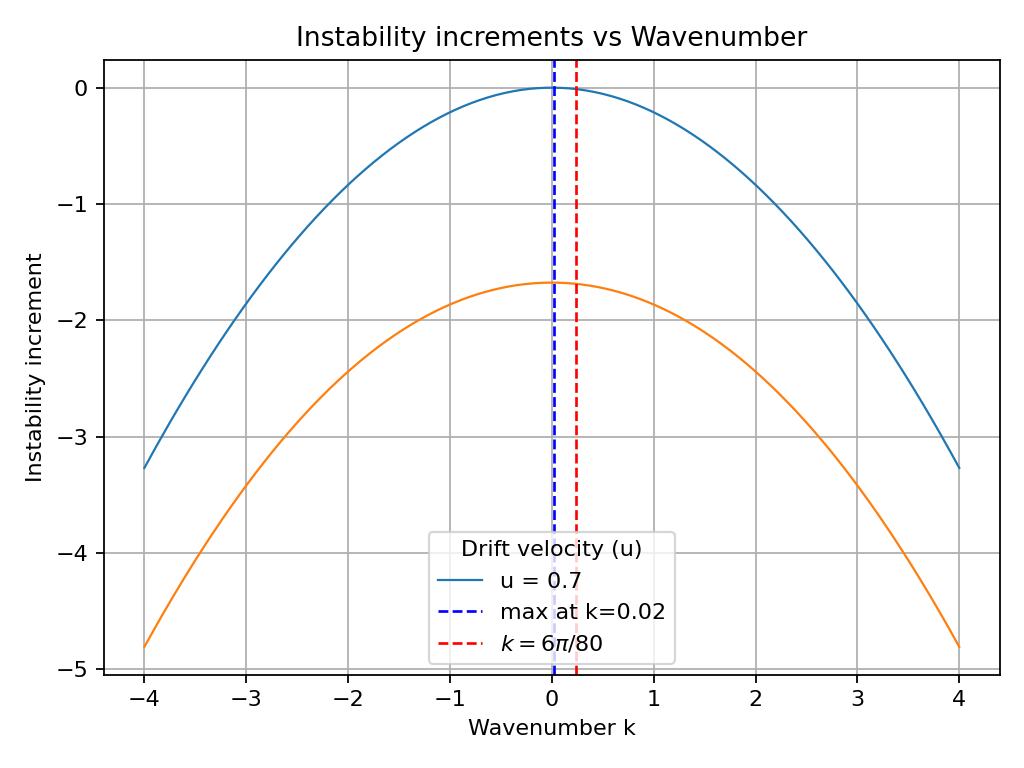
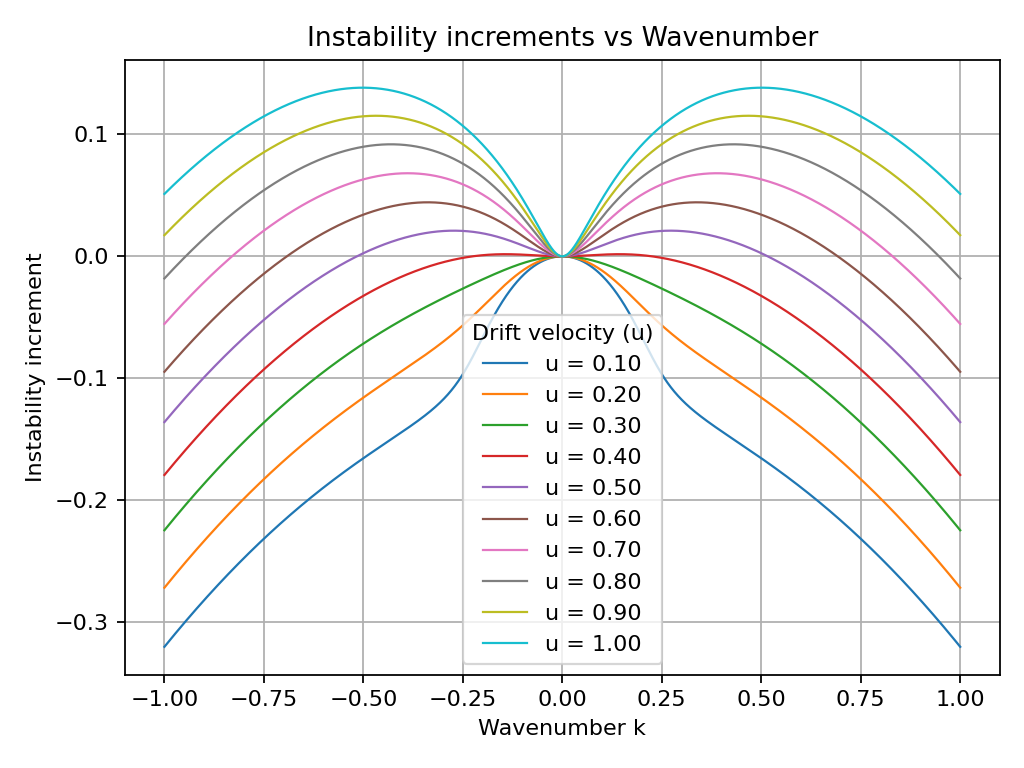
Updated parameters for linear instability simulation: increased 'n' to 1.0, adjusted 'kmin' and 'kmax' to -1 and 1 respectively, and expanded 'N' to 20000. Modified plotting labels for clarity.

diff --git a/linear instability increment/linear_instability_increment.py b/linear instability increment/linear_instability_increment.py
@@ -4,16 +4,16 @@ import matplotlib.pyplot as plt
 U0 = 0.5
 eta_p = 0.2
 eta_n = 0.2
-n = 0.2
+n = 1.0
 w = 0.5
 gamma0 = 2.5
-N = 200
-kmin = -4
-kmax = 4
+kmin = -1
+kmax = 1
+N = 20000
 Lambda = -(1 / w + 1 / n) * np.exp(-n / w)
 fig, ax = plt.subplots()
 
-u_values = [0.7]
+u_values = np.arange(0.1, 1.1, 0.1)#[0.7]
 
 for u in u_values:
     k_out = np.linspace(kmin, kmax, N)
@@ -35,20 +35,20 @@ for u in u_values:
         omega1[i1] = (-1j * gamma + k * Pp + 1j * np.sqrt(Delta)) / 2 - 1j * eta_p * k**2
         omega2[i1] = (-1j * gamma + k * Pp - 1j * np.sqrt(Delta)) / 2 - 1j * eta_p * k**2
 
-    ax.plot(k_out, np.imag(omega1), label=f'u = {u}', linewidth=1.0)
-    ax.plot(k_out, np.imag(omega2), linewidth=1.0)
+    ax.plot(k_out, np.imag(omega1), label=f'u = {u:.2f}', linewidth=1.0)
+    # ax.plot(k_out, np.imag(omega2), linewidth=1.0)
 
 
 mask = k_out >= 0
 k_right = k_out[mask]
 im1_right = np.imag(omega1)[mask]
 k_max_right = k_right[np.argmax(im1_right)]
-ax.axvline(k_max_right, color="blue", linestyle="--", linewidth=1.2,
-           label=f"max at k={k_max_right:.2f}")
+# ax.axvline(k_max_right, color="blue", linestyle="--", linewidth=1.2,
+           # label=f"max at k={k_max_right:.2f}")
 
 L = 80.0
 k_line = 6 * np.pi / L
-ax.axvline(k_line, color="red", linestyle="--", linewidth=1.2, label=f"$k = 6\\pi/{L:.0f}$")
+# ax.axvline(k_line, color="red", linestyle="--", linewidth=1.2, label=f"$k = 6\\pi/{L:.0f}$")
 
 # k_line = 20 * np.pi / L
 # ax.axvline(k_line, color="purple", linestyle="--", linewidth=1.2, label=f"$k = 6\\pi/{L:.0f}$")
